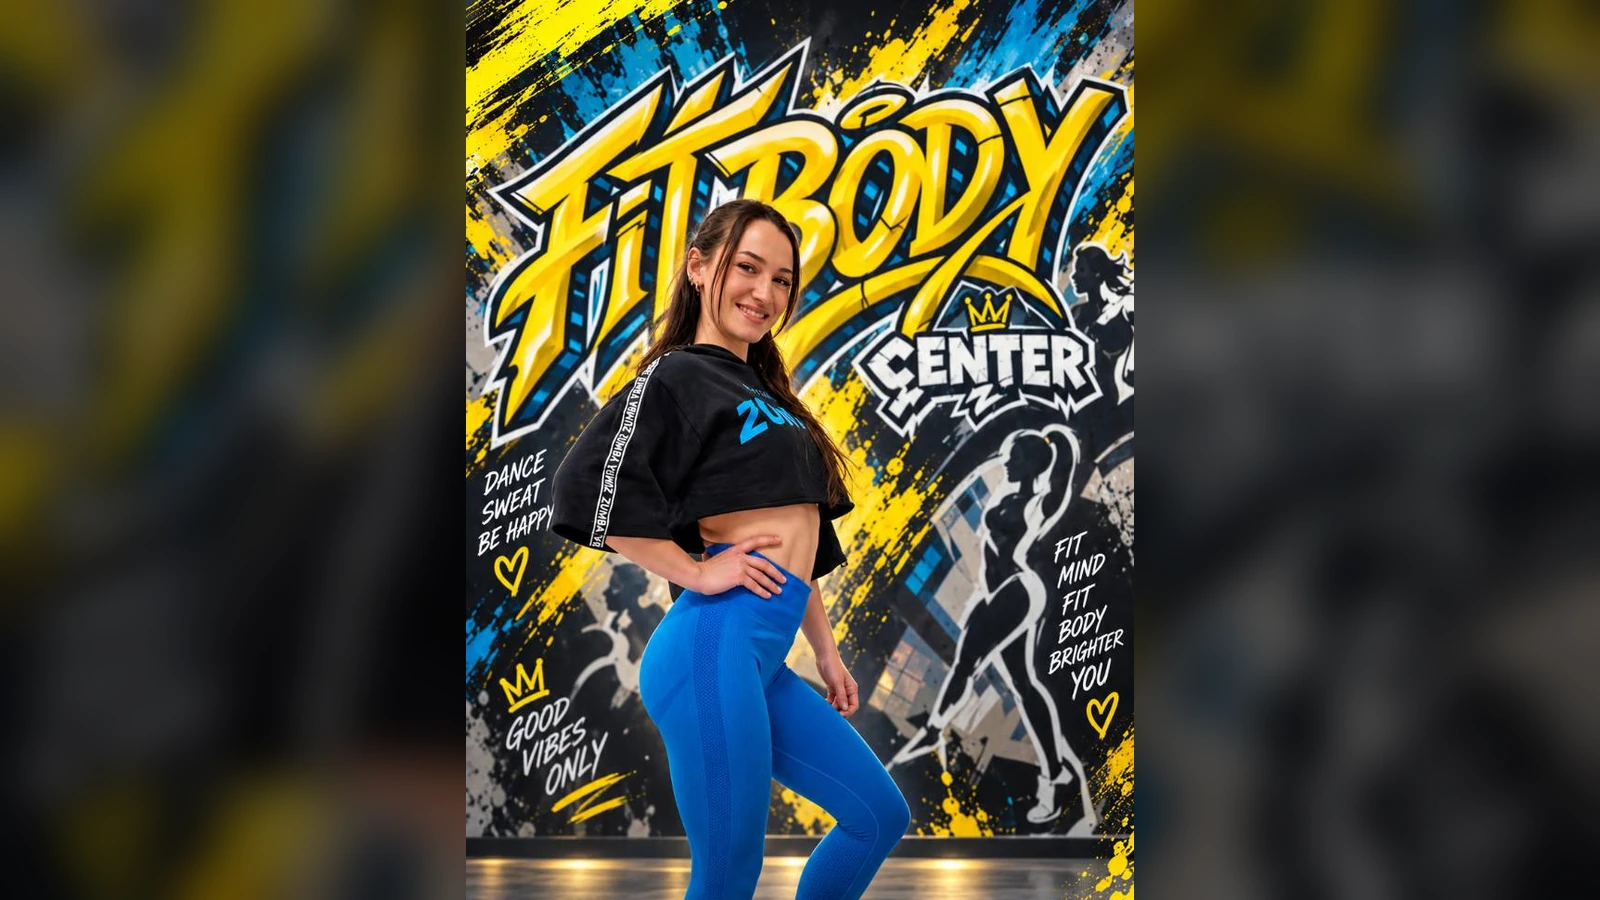
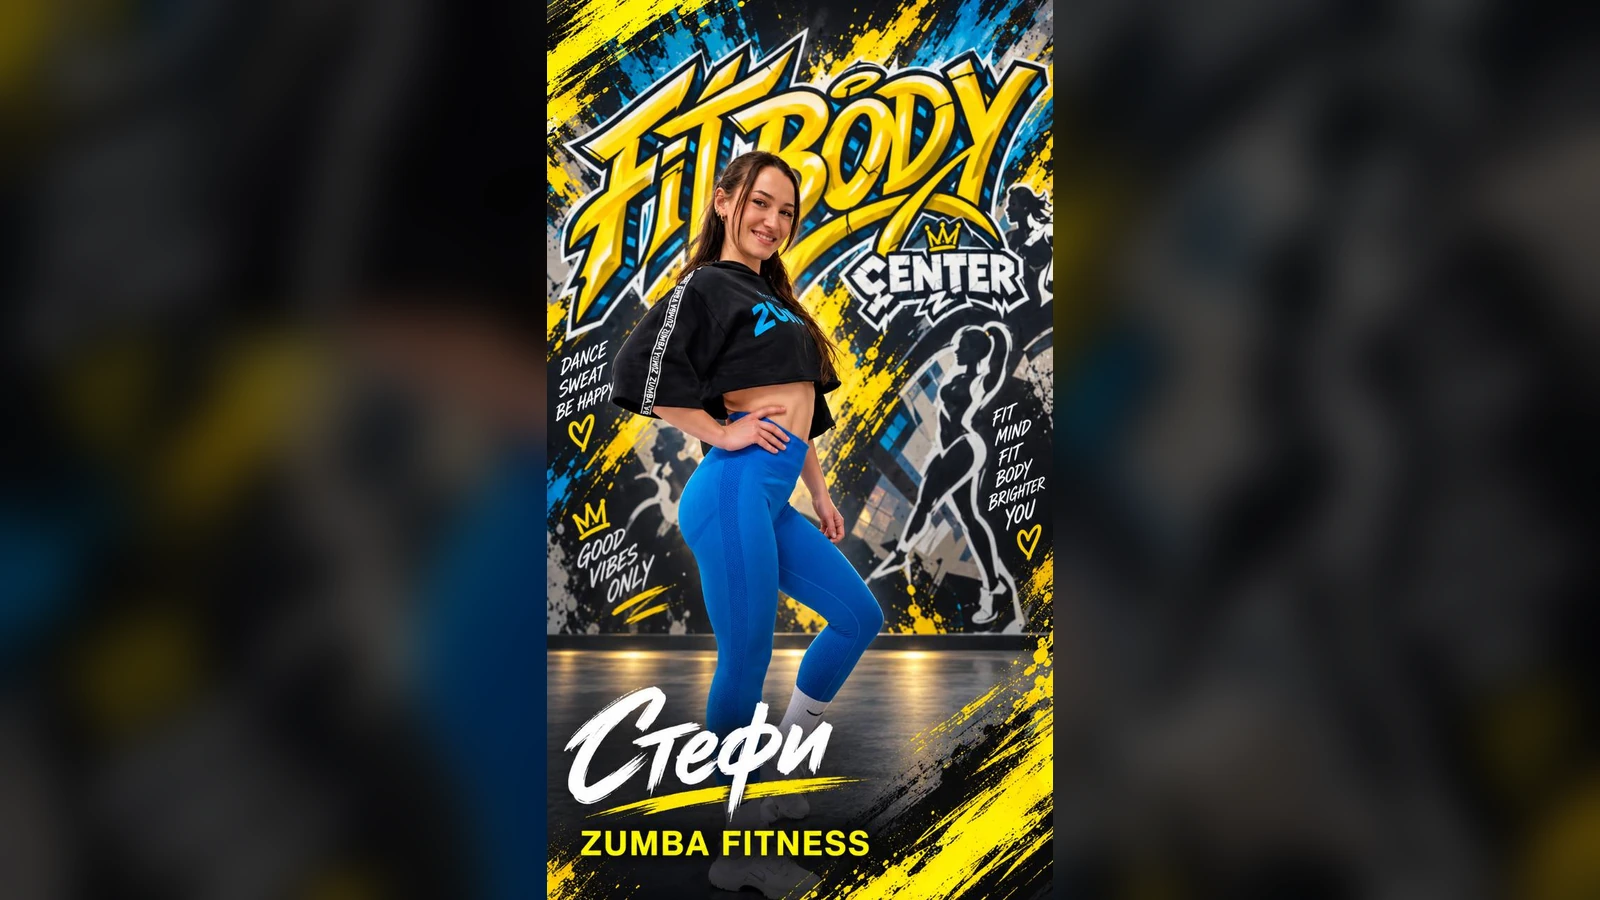
Show complete training posters without overlays

diff --git a/src/styles.css b/src/styles.css
@@ -674,6 +674,22 @@ body.modal-open{overflow:hidden;overscroll-behavior:none}.live-admin{max-width:8
 
 /* Keep artwork within the existing admin link thumbnails, too. */
 .training-link-art img{width:calc(100% - 4px);height:calc(100% - 4px);min-width:0;min-height:0;object-fit:contain;object-position:center;transform:none}
+/* Preserve the complete supplied posters and their original names, without duplicate copy. */
+.poster-training-hero .training-page-copy{display:none}
+.training-icon:is([data-training="pilates"],[data-training="zumba"],[data-training="tae-bo"],[data-training="step-aerobics"]) img{width:100%;height:100%;border-radius:19px;object-fit:contain}
+.training-links-list article:is([data-training="pilates"],[data-training="zumba"],[data-training="tae-bo"],[data-training="step-aerobics"]) .training-link-art img{width:100%;height:100%;border-radius:11px;object-fit:contain}
+.training-directory-grid>a:is([data-training="pilates"],[data-training="zumba"],[data-training="tae-bo"],[data-training="step-aerobics"]){display:block;background:#050505}
+.training-directory-grid>a:is([data-training="pilates"],[data-training="zumba"],[data-training="tae-bo"],[data-training="step-aerobics"])>div{width:100%;height:100%}
+.training-directory-grid>a:is([data-training="pilates"],[data-training="zumba"],[data-training="tae-bo"],[data-training="step-aerobics"]) img{width:100%;height:100%;object-fit:contain}
+.training-directory-grid>a:is([data-training="pilates"],[data-training="zumba"],[data-training="tae-bo"],[data-training="step-aerobics"])>span{display:none}
+@media(min-width:561px){.training-directory-grid>a:is([data-training="pilates"],[data-training="zumba"],[data-training="tae-bo"],[data-training="step-aerobics"]){height:108px;aspect-ratio:auto}}
+@media(max-width:560px){
+  .poster-training-hero{display:flex;min-height:0;padding:0;overflow:hidden}
+  .poster-training-hero .training-page-photo{position:relative;width:100%;height:auto;aspect-ratio:9/16;flex:0 0 auto}
+  .poster-training-hero .training-page-photo img{object-fit:cover;transform:none}
+  .poster-training-hero:after{display:none}
+  .training-directory-grid>a:is([data-training="pilates"],[data-training="zumba"],[data-training="tae-bo"],[data-training="step-aerobics"])>div{padding:0}
+}
 /* Make the booking timestamp easier to read in the attendee list. */
 .attendee-booked-at b{font-size:10px}
 .attendee-booked-at small{font-size:9px}

diff --git a/src/PublicApp.tsx b/src/PublicApp.tsx
@@ -885,9 +885,11 @@ function TrainingIcon({
   compact?: boolean;
 }) {
   const icon = trainingIconForTitle(title);
+  const trainingSlug = trainingPageForTitle(title)?.slug;
   return (
     <div
       className={`training-icon ${compact ? "compact" : ""}`}
+      data-training={trainingSlug}
       aria-hidden="true"
     >
       <img
@@ -913,7 +915,10 @@ function TrainingPageHero({
     window.localStorage.getItem(`training-body-scale-${page.slug}`) ?? 1,
   );
   return (
-    <section className="training-page-hero" data-training={page.slug}>
+    <section
+      className={`training-page-hero ${["pilates", "zumba", "tae-bo", "step-aerobics"].includes(page.slug) ? "poster-training-hero" : ""}`}
+      data-training={page.slug}
+    >
       <div className="training-page-photo">
         <img
           src={`${baseUrl}training-heroes/${page.hero}?v=posters-20260906`}

diff --git a/src/AdminApp.tsx b/src/AdminApp.tsx
@@ -575,7 +575,7 @@ function TrainingLinks() {
         {trainingPages.map((page) => {
           const link = publicLink(page);
           return (
-            <article key={page.slug}>
+            <article key={page.slug} data-training={page.slug}>
               <div className="training-link-art">
                 <img src={`${baseUrl}training-icons/${page.icon}?v=posters-20260906`} alt="" />
               </div>
